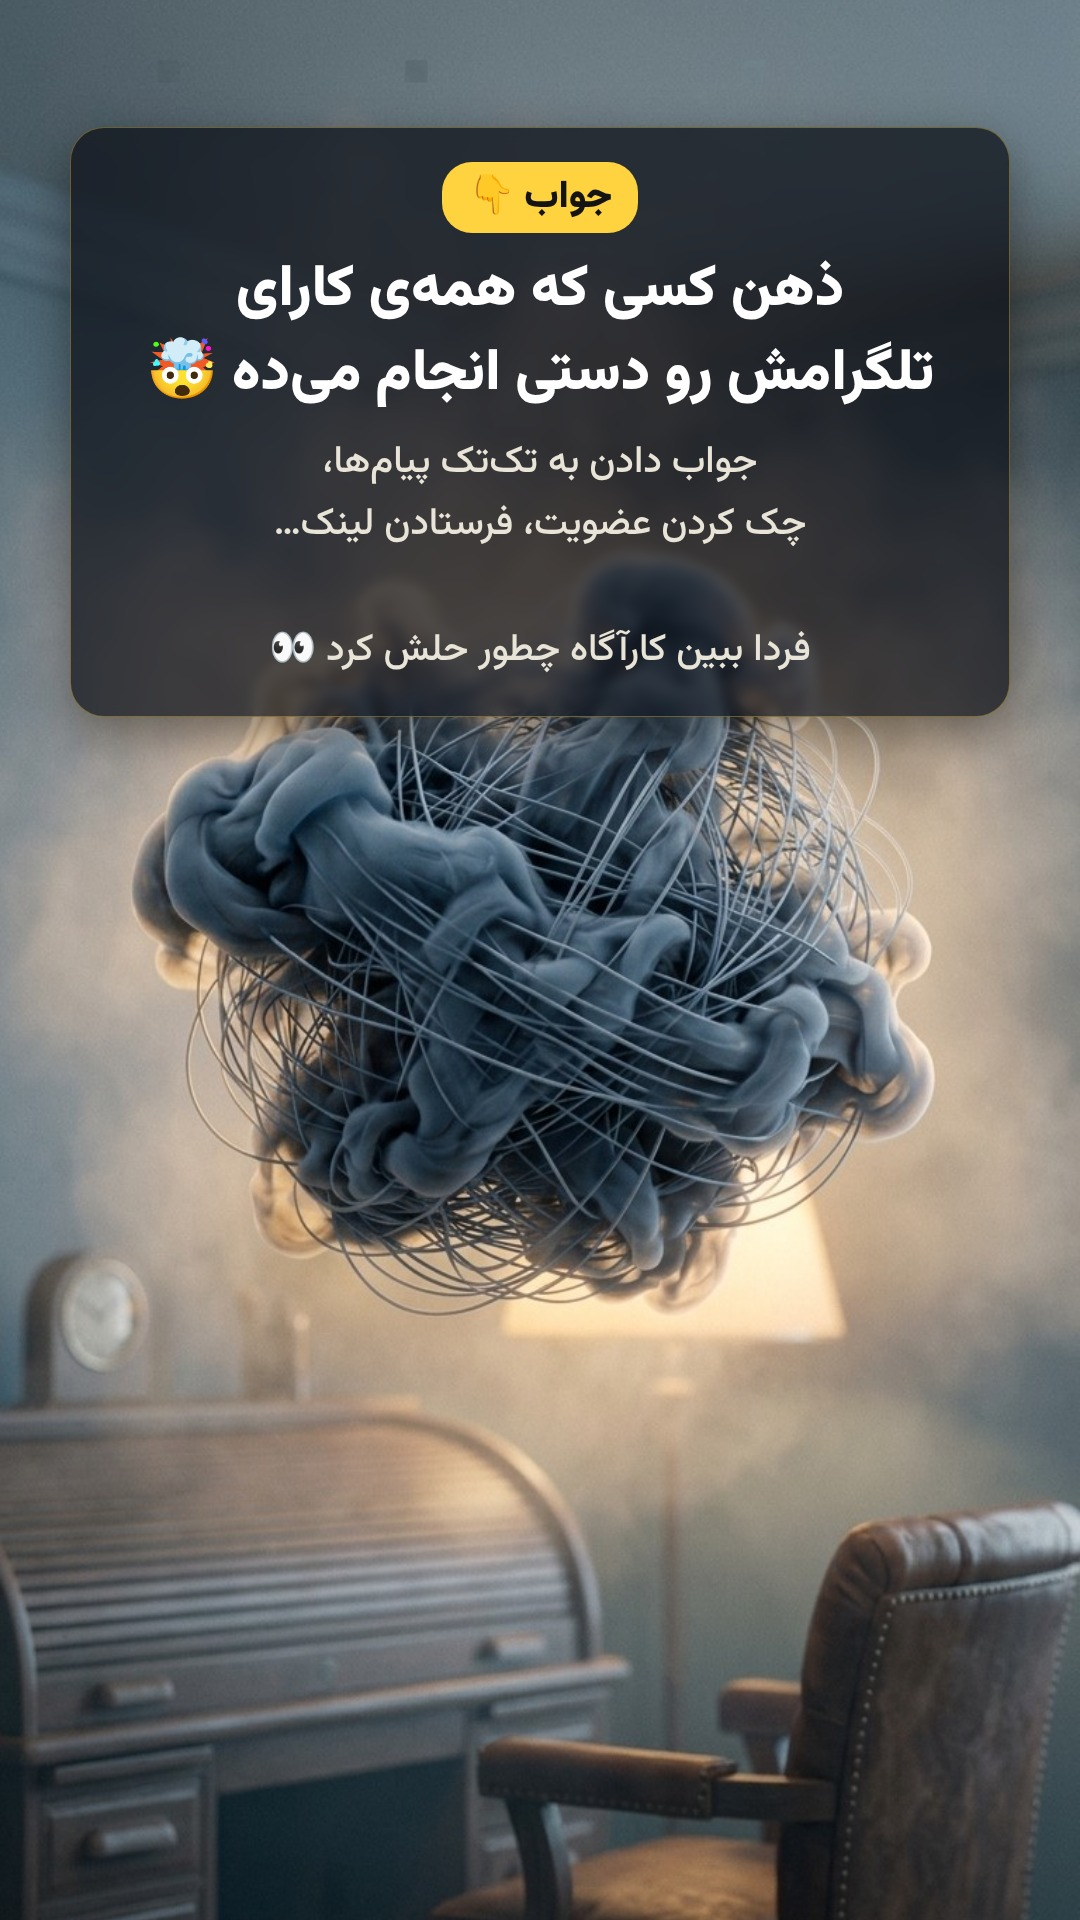
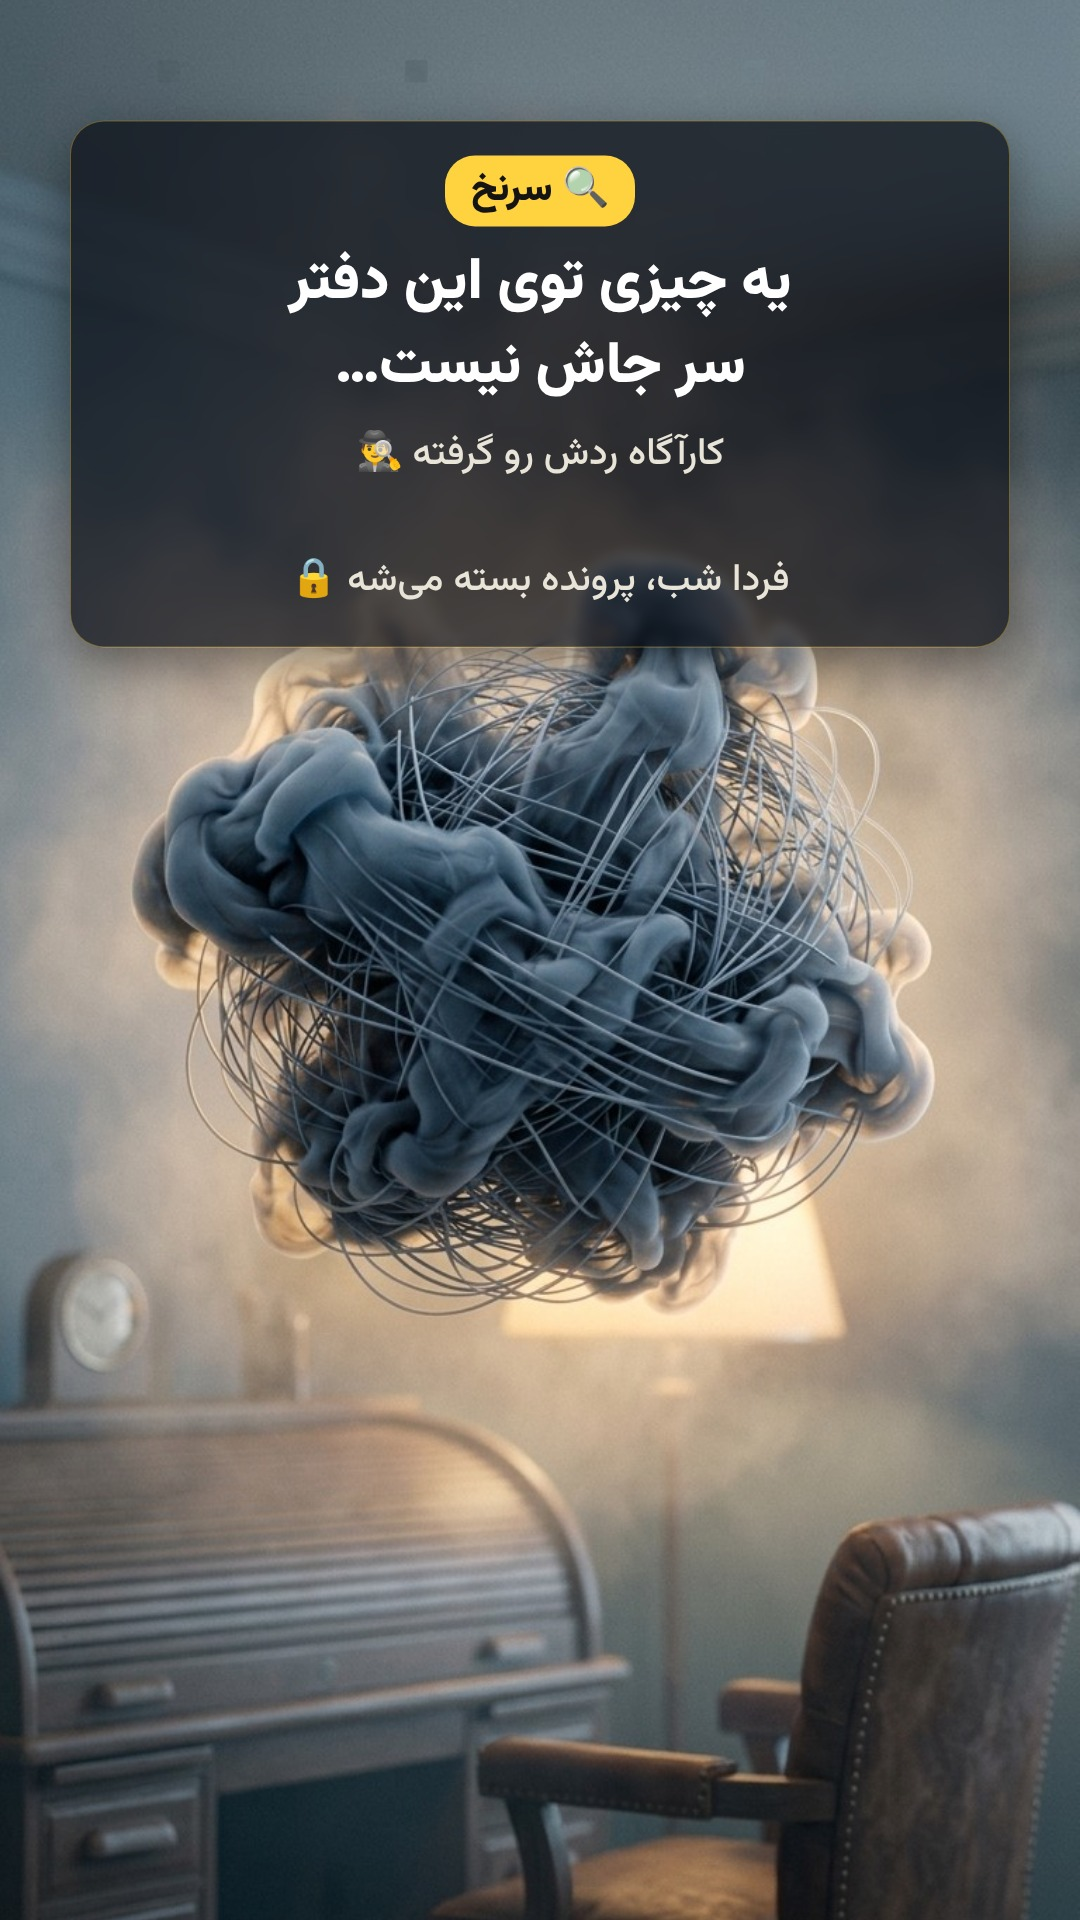
Keep the case-1 mystery unsolved in day-0 stories
Story 3 no longer reveals the answer; the quiz becomes an open question and a
countdown points to the conclusion reel. PLAN.md records the no-spoiler rule
for the daily prep task.

Claude-Session: https://claude.ai/code/session_01WcC5ZzRss3k8SvioAY2oQv

Changed region(s): [[0.0611, 0.0625, 0.9472, 0.4062]]

diff --git a/marketing/PLAN.md b/marketing/PLAN.md
@@ -13,8 +13,10 @@
 ## روز ۰: یکشنبه ۲۰۲۶-۱۰-۱۱ ✅ آماده شد
 فقط استوری (`out/day0-2026-10-11/`):
 1. `story1.jpg` (عکس ۱): استیکر Poll با سؤال «ریل دیروز رو دیدی؟ 👀» و گزینههای «آره / نه هنوز». ساعت **۱۹:۳۰**
-2. `story2.jpg` (عکس ۳): استیکر Quiz با سؤال «این چیه؟» و گزینههای «یه ابر / یه کلاف نخ / ذهن یه صاحب کسبوکار ✅». ساعت **۲۰:۴۵**
-3. `story3.jpg` (عکس ۲): استیکر Question با سؤال «بزرگترین دردسرت توی تلگرام چیه؟». ساعت **۲۲:۰۰**
+2. `story2.jpg` (عکس ۳): استیکر Question با سؤال «به نظرت این چیه؟ 🤔». ساعت **۲۰:۴۵**. جواب لو داده نشود.
+3. `story3.jpg` (عکس ۲): «🔍 سرنخ / یه چیزی توی این دفتر سر جاش نیست… / فردا شب، پرونده بسته میشه 🔒» با استیکر **Countdown** «پروندهی ۱ بسته میشه» برای دوشنبه ساعت ۲۱:۰۰. ساعت **۲۲:۰۰**
+
+> قانون سریال: جواب هر معما (مشکل «کارهای دستی» و راهحل ربات) فقط **در خود ریل/پست جواب** لو برود، نه زودتر. استوریهای قبل از ریل فقط سرنخ و کنجکاوی بسازند.
 
 ## روز ۱: دوشنبه ۲۰۲۶-۱۰-۱۲
 **ریل نتیجهگیری:** کارآگاه کلاهش رو برمیداره و ایزیمیکبات میشه.
